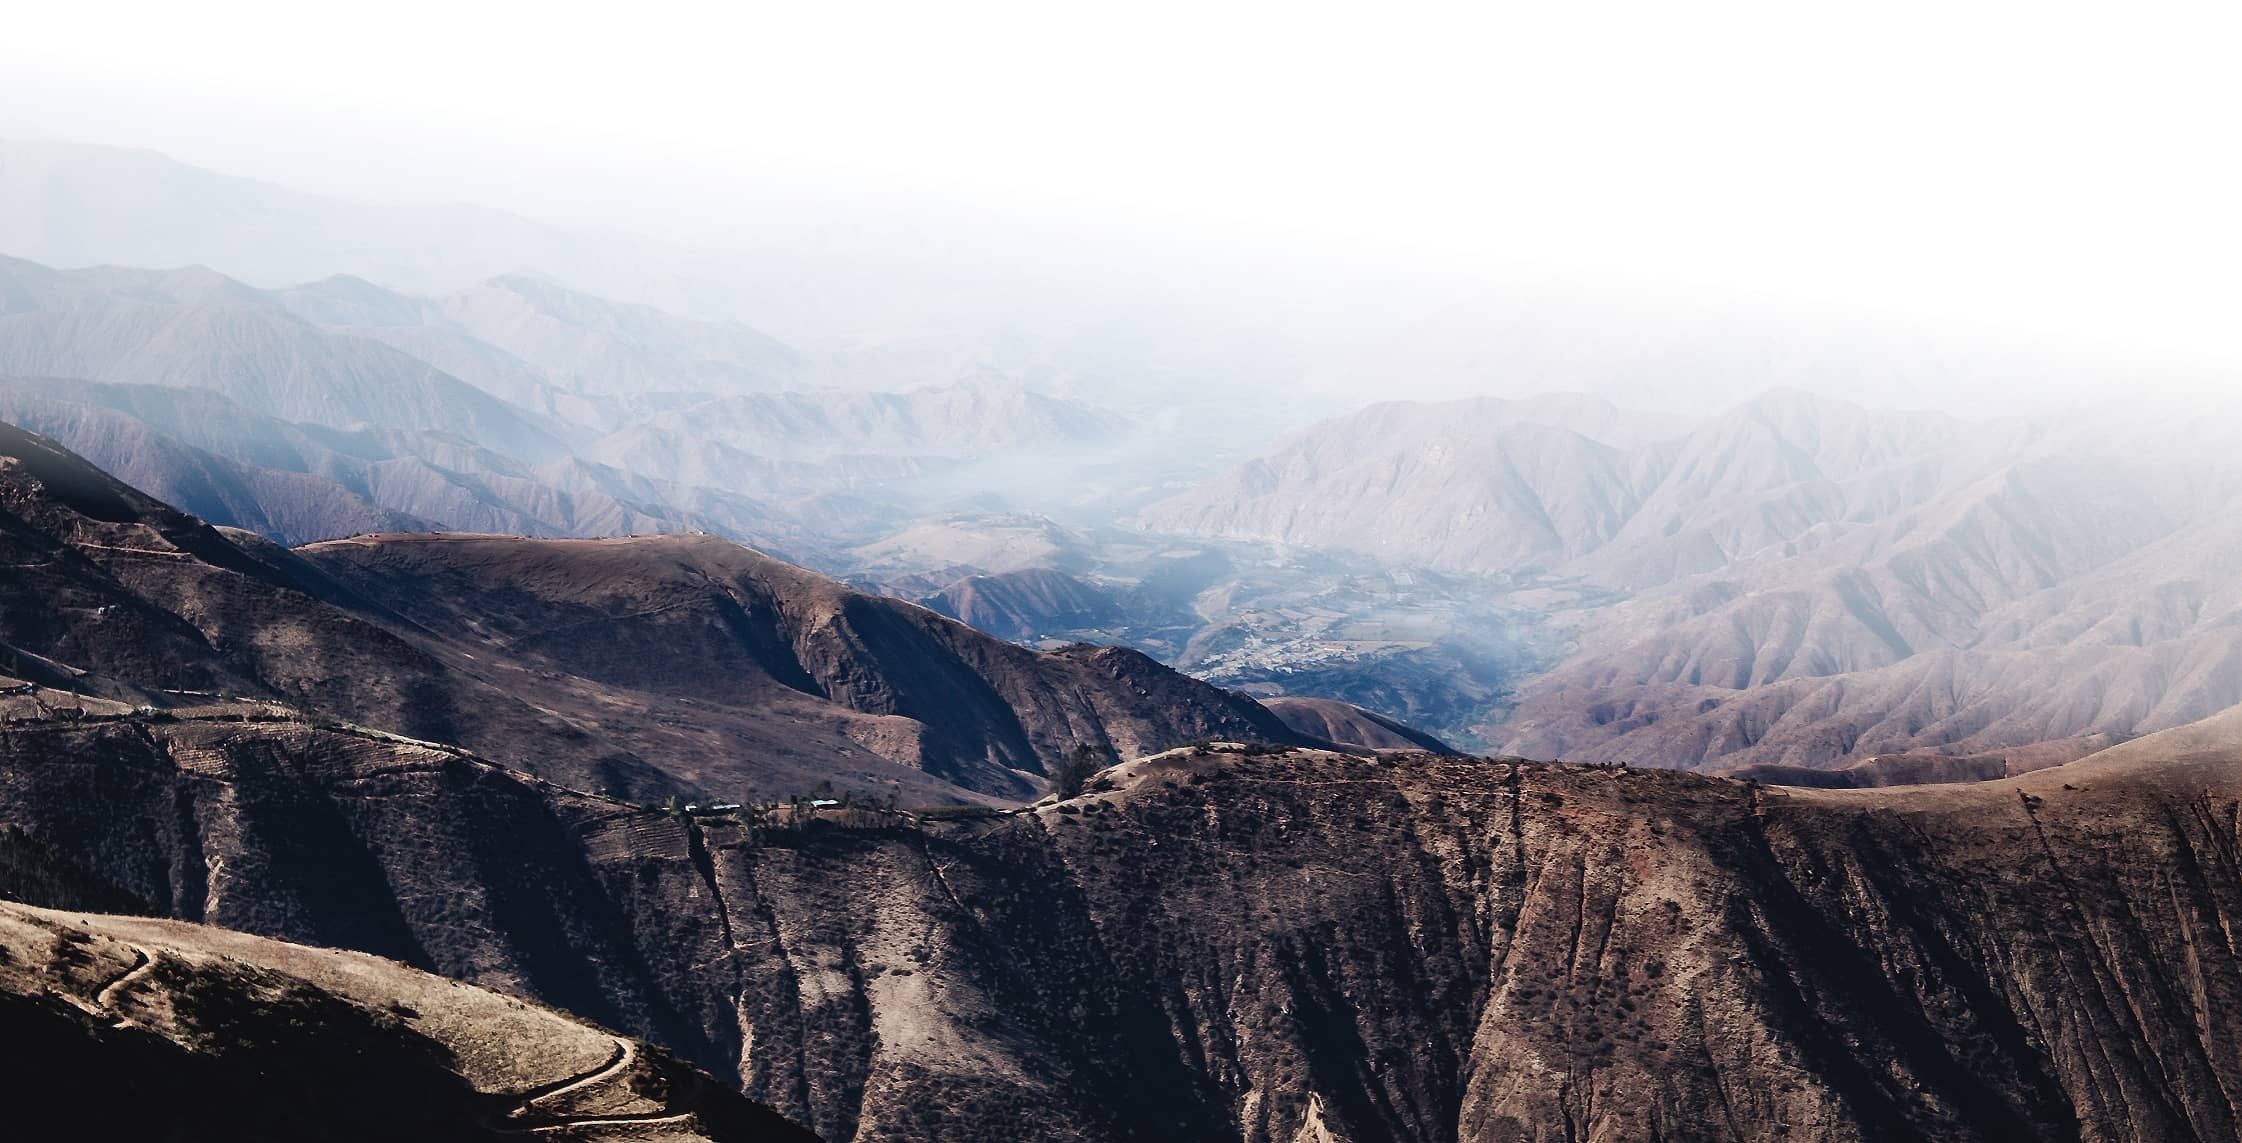
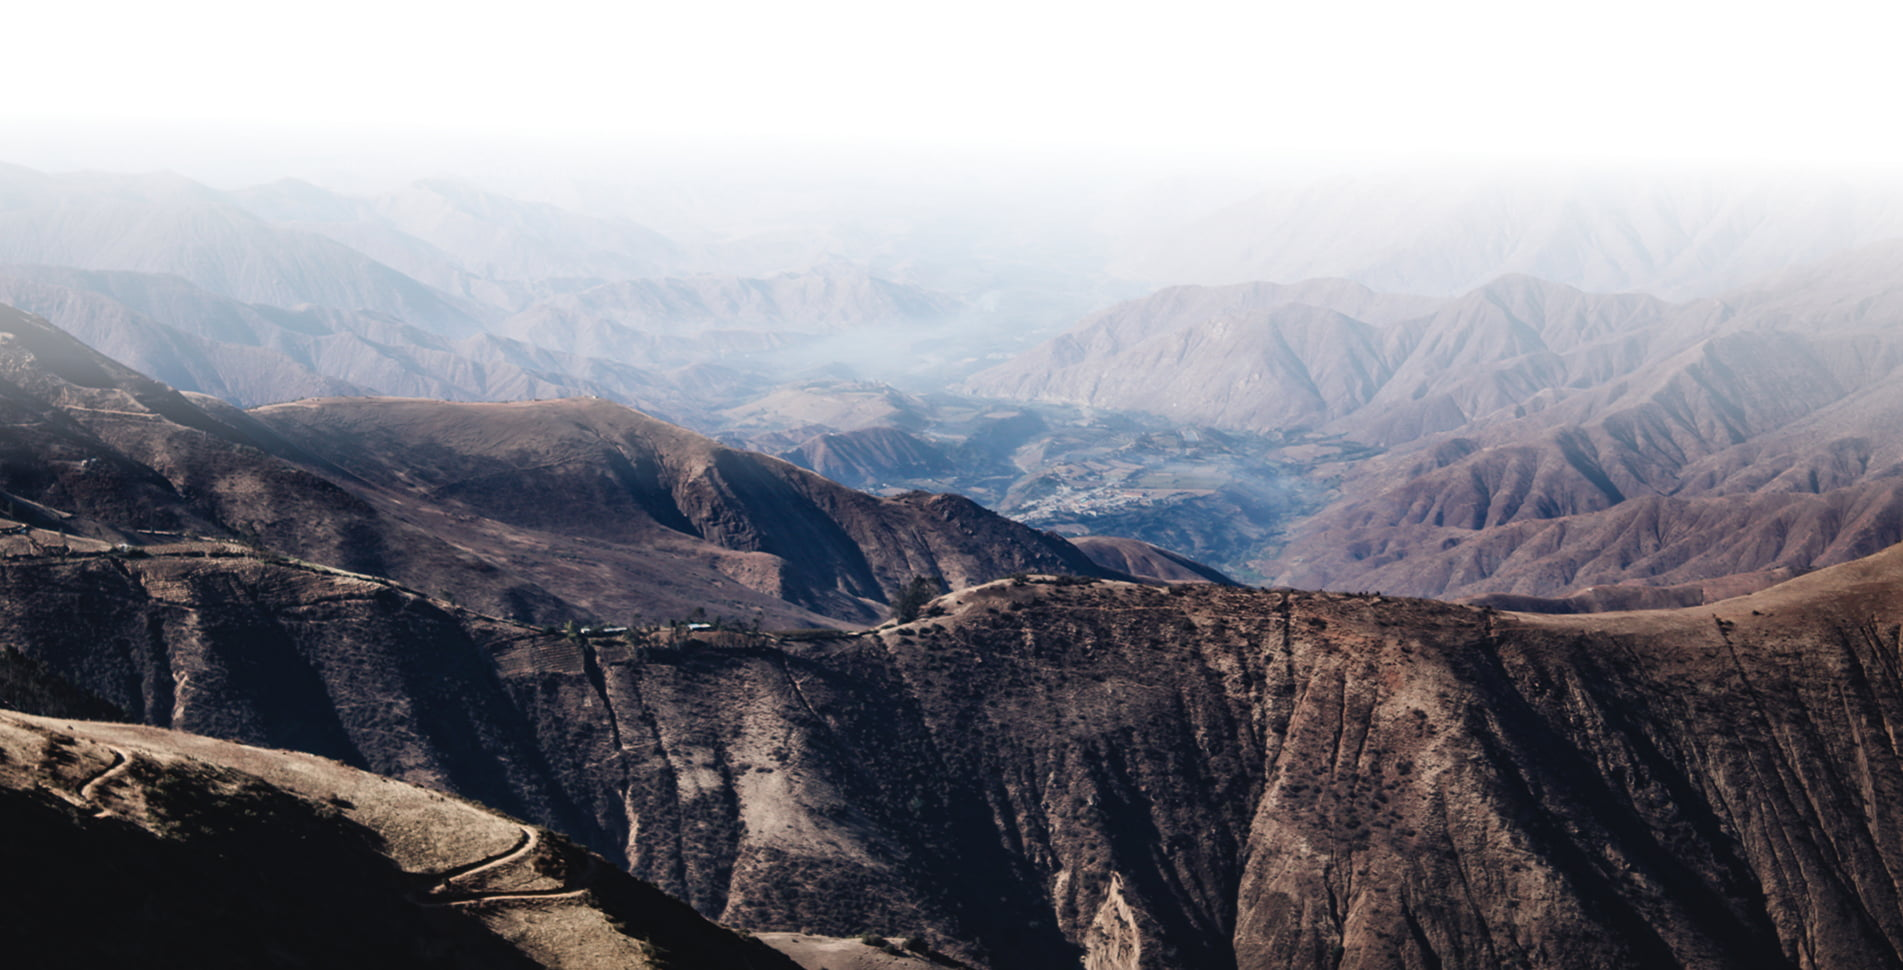
mejoras

diff --git a/src/sections/Curricula.js b/src/sections/Curricula.js
@@ -6,40 +6,36 @@ import theme from '../styles/theme'
 const { colors } = theme;
 
 const Container = styled.section`
+  position: relative;
   padding: 10rem 3rem;
-  background: url('images/noche en huaraz.jpg') no-repeat bottom;
+  background: url('images/montañas.jpg') no-repeat bottom;
   background-size: cover;
-  height: 100vh;
-
-  ${media.desktop`
-    height: 150rem;
-  `}
+  min-height: 100vh;
 `
 
 const Cards = styled.div`
-  max-width: 110rem;
-  margin: 0 auto;
-  margin-top: 7.5rem;
+  width: 100%;
+  position: absolute;
   display: flex;
   justify-content: center;
   flex-wrap: wrap;
   text-align: center;
-
-  ${media.tablet`
-    margin-top: 0;
-  `}
+  bottom: 3rem;
+  left: 50%;
+  transform: translateX(-50%);
 `
 
 const Card = styled.div`
-  max-width: 51rem;
+  max-width: 45rem;
   background-color: ${colors.white};
-  padding: 5rem 5.5rem;  
+  padding: 2.5rem 4rem;  
   border-radius: 2.5rem;
   margin: 2rem;
 
   & h3 {
-    font-size: 5rem;
+    font-size: 4rem;
     font-weight: 500;
+    line-height: 1;
     color: ${props => colors[props.titleColor]};
 
     ${media.tablet`
@@ -51,7 +47,7 @@ const Card = styled.div`
     font-size: 1.7rem;
     color: ${colors.black};
     line-height: 1.75;
-    margin: 2rem 0;
+    margin: 1rem 0;
 
     ${media.tablet`
       margin-top: 1rem;
@@ -68,25 +64,25 @@ const Card = styled.div`
 const Curricula = () => {
   return (
     <Container id="curricula">
-      <Heading 
-        title="Currícula"
-        tagline="Talleres y expediciones"
-        description="Llevar a Chimbote de ser una sociedad dependiente de la pesca industrial a una cultura más productiva orientada al turismo, significa comprender su historia, su patrimonio y su territorio."
-        colors={{title: 'white', text: 'white'}}
-        width="85rem"
-      />
-      <Cards>
-        <Card titleColor="green">
-          <h3>Expediciones</h3>
-          <p>Viajes vivenciales y campamentos en los miradores naturales de nuestra provincia, como el ancestral Monte de Chimbote, el histórico Cerro de la Juventud, la gran península El Ferrol y el inspirador mirador de Quillcay.</p>
-          <a href="/pdfs/Internautas (expediciones).pdf" target="_blank" rel="noreferrer">Ver expediciones +</a>
-        </Card>
-        <Card titleColor="blue">
-          <h3>Talleres</h3>
-          <p>Capacitaciones en desarrollo de aplicaciones, branding y diseño, gestión cultural, gestión turística y gestión de proyectos. Integrando toda la información en una plataforma única, sostenible y escalable.</p>
-          <a href="/pdfs/Internautas (talleres).pdf" target="_blank" rel="noreferrer">Ver talleres +</a>
-        </Card>
-      </Cards>
+        <Heading 
+          title="Currícula"
+          tagline="Talleres y expediciones"
+          description="Llevar a nuestra provincia de ser dependiente de la agricultura de subsistencia y la pesca industrial, a una cultura más productiva orientada al turismo, significa comprender su historia, su patrimonio y territorio."
+          colors={{title: 'black', text: 'black'}}
+          width="95rem"
+        />
+        <Cards>
+          <Card titleColor="green">
+            <h3>Expediciones</h3>
+            <p>Viajes a los miradores naturales de nuestra provincia, como el ancestral Monte de Chimbote, el histórico Cerro de la Juventud, la gran península El Ferrol y el inspirador mirador de Quillcay.</p>
+            <a href="/pdfs/Internautas (expediciones).pdf" target="_blank" rel="noreferrer">Ver expediciones +</a>
+          </Card>
+          <Card titleColor="blue">
+            <h3>Talleres</h3>
+            <p>Capacitaciones en desarrollo web, branding y diseño, gestión cultural, gestión turística y gestión de proyectos. Integrando toda la información en una plataforma única, sostenible y escalable.</p>
+            <a href="/pdfs/Internautas (talleres).pdf" target="_blank" rel="noreferrer">Ver talleres +</a>
+          </Card>
+        </Cards>
     </Container>
   )
 }

diff --git a/src/sections/Aliados.js b/src/sections/Aliados.js
@@ -1,0 +1,67 @@
+import React from 'react'
+import styled from 'styled-components/macro'
+import theme from '../styles//theme'
+import { aliados } from '../data/aliados'
+import media from '../styles//media'
+import Heading from '../components/Heading'
+const { colors } = theme
+
+const Container = styled.section`
+  min-height: 100vh;
+  background: url('images/pesca en el mar de chimbote.jpg') no-repeat center;
+  background-size: cover;
+  padding: 10rem 3rem;
+`
+
+const List = styled.ul`
+  max-width: 82rem;
+  height: 31.5rem;
+  margin: 3rem auto;
+  display: flex;
+  flex-direction: column;
+  flex-wrap: wrap;
+  gap: 1rem;
+  list-style: none;
+  padding: 2rem 0;
+  border-top: 1px solid ${colors.black};
+  border-bottom: 1px solid ${colors.black};
+
+  & > li {
+    font-size: 1.5rem;
+  }
+`
+
+const Button = styled.button`
+  display: block;
+  width: 12rem;
+  padding: 1rem;
+  margin: 0 auto;
+  font-size: 1.6rem;
+  font-weight: 600;
+  color: #fff;
+  background-color: #FE0066;
+  border: none;
+  outline: none;
+  border-radius: 50rem;
+`
+
+const Aliados = () => {
+  return (
+    <Container>
+      <Heading
+        title="Aliados"
+        description="Articulamos esfuerzos, conectando emprendimientos. Producimos valor cultural, compartiendo creatividad. Generando oportunidades para el bien común."
+        colors={{title: 'black', text: 'black'}}
+        width="82rem"
+      />
+
+      <List>
+        {aliados.map((aliado, index) => <li key={index}>{aliado}</li>)}
+      </List>
+
+      <Button>Unirme</Button>
+    </Container>
+  )
+}
+
+export default Aliados

diff --git a/src/sections/Equipo.js b/src/sections/Equipo.js
@@ -1,17 +1,15 @@
 import React from 'react'
 import styled from 'styled-components/macro'
 import media from '../styles/media'
-import theme from '../styles/theme'
 import Heading from '../components/Heading'
 import TeamMember from '../components/TeamMember'
 import { equipo } from '../data/equipo'
-const { colors } = theme;
 
 const Container = styled.section`
   position: relative;
   padding: 10rem 3rem;
-  color: ${colors.white};
   height: 100vh;
+  background-color: #000;
 
   ${media.tablet`
     height: auto;
@@ -39,7 +37,7 @@ const Equipo = () => {
         title="Equipo Creativo"
         description="Un buen trabajo es posible gracias al talento, compromiso y valores compartidos de amigos chimboteros con una visión común: el cambio cultural."
         tagline="Valores compartidos, una visión común"
-        colors={{title: 'black', text: 'black'}}
+        colors={{title: 'gold', text: 'white'}}
         width="70rem"
       />
 
@@ -47,7 +45,7 @@ const Equipo = () => {
         {equipo.map(member => (
           <TeamMember
             key={member.id}
-            path={member.imgPath}          
+            imgPath={member.imgPath}          
             name={member.name}
             position={member.position}
             description={member.description}

diff --git a/src/data/aliados.js b/src/data/aliados.js
@@ -1,0 +1,42 @@
+export const aliados = [
+  'Universidad Tecnológica del Perú',
+  'Centro Cultural Centenario',
+  'Diócesis de Chimbote',
+  'Minnelly, helados y yogurts',
+  'Bonelli, vitivinícola',
+  'Rebachinni, cafetería',
+  'Noemí & Flor, cevichería',
+  'Las Flores, panadería artesanal',
+  'Cervecería del Norte',
+  'La Fontana, restaurant de campo',
+  'Magia, cocina peruana',
+  'Adagio, centro de las artes',
+  'Doña Cholita, alfajores morinos',
+  'El Pescadito, cevichería',
+  'Gastelumendi, vitivinícola',
+  'Wachuma, macerados',
+  'Anshelitus Tours',
+  'Isla Blanca Tours',
+  'Doña Julia, restaurante',
+  'FARCH, deporte extremo',
+  'Muelle Viejo , cerveza artesanal',
+  'Don Cangrejo, cevichería',
+  'Doña Nora, cevichería',
+  'Don Segundo, cevichería',
+  'Alicia, restaurante',
+  'Entre Mares, cevichería',
+  'Hectitor’s del Norte, restaurante',
+  'Manos Piuranas, restaurante',
+  'Wanyú, cevichería',
+  'La Crep, crepería',
+  'Ppitos, paletas',
+  'Mamá Flor, juguería',
+  'Raquel, cevichería',
+  'Costa Brava, cevichería',
+  'La Paisita, cevichería',
+  'El Cangrejito, cevichería',
+  'Don Segundo, cevichería',
+  'Ecovida, envases ecológicos',
+  'Biciteca, libros errantes',
+  'Perú Bar, coctelería'
+]

diff --git a/src/components/TeamMember.js b/src/components/TeamMember.js
@@ -14,7 +14,7 @@ const ProfileImage = styled.img`
 `
 
 const Name = styled.h3`
-  color: ${colors.green};
+  color: ${colors.gold};
   font-size: 2.1rem;
   font-weight: 500;
   margin-bottom: 3px;
@@ -26,7 +26,7 @@ const Name = styled.h3`
 
 const Position = styled.i`
   font-size: 1.8rem;
-  color: #777;
+  color: #ddd;
 
   ${media.tablet`
     font-size: 1.7rem;
@@ -37,16 +37,17 @@ const Description = styled.p`
   font-size: 1.7rem;
   line-height: 1.5;
   margin: 1rem 0;
+  color: ${colors.white};
 
   ${media.tablet`
     font-size: 1.6rem;
   `}
 `
 
-const TeamMember = ({path, name, position, description}) => {
+const TeamMember = ({imgPath, name, position, description}) => {
   return (
     <Container>
-      <ProfileImage src={`images/equipo/${path}.png`}/>
+      <ProfileImage src={`images/equipo/${imgPath}.png`}/>
       <Name>{name}</Name>
       <Position>{position}</Position>
       <Description>{description}</Description>

diff --git a/src/sections/Rutas.js b/src/sections/Rutas.js
@@ -4,19 +4,19 @@ import Heading from '../components/Heading'
 
 const Container = styled.section`
   padding: 10rem 3rem;
-  background: url('images/montañas.jpg') no-repeat bottom;
+  background: url('images/rutas.jpg') no-repeat bottom;
   background-size: cover;
-  height: 100vh;
+  height: 120rem
 `
 
 const Rutas = () => {
   return (
     <Container id="rutas">
       <Heading
-        title="Rutas Culturales"
+        title="Las Rutas de Chimbote"
         tagline="Uniendo los valores de la gente y sus riquezas"
         description="En nuestra provincia conviven misteriosamente riquezas por revalorar, mediante rutas con proyección turística, para compartir sus oportunidades y unir a su gente de la manera más sencilla e inspiradora."
-        colors={{title: 'gold', text: 'black'}}
+        colors={{title: 'black', text: 'black'}}
         width="90rem"
       />
     </Container>

diff --git a/src/components/Heading.js b/src/components/Heading.js
@@ -12,7 +12,7 @@ const Container = styled.div`
 
 const Title = styled.h2`
   font-size: ${fontSizes.xxl};
-  font-weight: 600;
+  font-weight: 700;
   color: ${props => colors[props.color]};
   text-transform: capitalize;
   line-height: 1.2;
@@ -50,7 +50,7 @@ const Heading = ({title, tagline, description, width, colors}) => {
   return (
     <Container width={width}>
       <Title color={colors.title}>{title}</Title>
-      <TagLine color={colors.text}>{tagline}</TagLine>
+      {tagline && <TagLine color={colors.text}>{tagline}</TagLine>}
       <Description color={colors.text}>{description}</Description>
     </Container>
   )

diff --git a/src/sections/UniendoChimbote.js b/src/sections/UniendoChimbote.js
@@ -2,14 +2,12 @@ import React from 'react'
 import styled from 'styled-components/macro'
 import Heading from '../components/Heading';
 import media from '../styles/media'
-import theme from '../styles/theme'
-const { colors } = theme;
 
 const Container = styled.section`
   position: relative;
-  background-color: ${colors.black};
+  background-color: #000;
   padding: 10rem 3rem;
-  height: 100vh;
+  min-height: 100vh;
 
   ${media.tablet`
     height: 100vh;

diff --git a/src/App.js b/src/App.js
@@ -10,6 +10,7 @@ import Convocatoria from './sections/Convocatoria'
 import Equipo from './sections/Equipo'
 import Contacto from './sections/Contacto'
 import Footer from './sections/Footer'
+import Aliados from './sections/Aliados'
 
 const AppContainer = styled.div`
   position: relative;
@@ -27,6 +28,7 @@ const App = () => {
       <Curricula />
       <Equipo />
       <Convocatoria />
+      <Aliados />
       <Contacto />
       <Footer /> 
 

diff --git a/src/styles/theme.js b/src/styles/theme.js
@@ -6,7 +6,7 @@ const theme = {
     blue: '#0343C9',
     red: '#ff0000',
     dark: '#262626',
-    black: '#000',
+    black: '#222',
     white: '#fff'
   },
 
